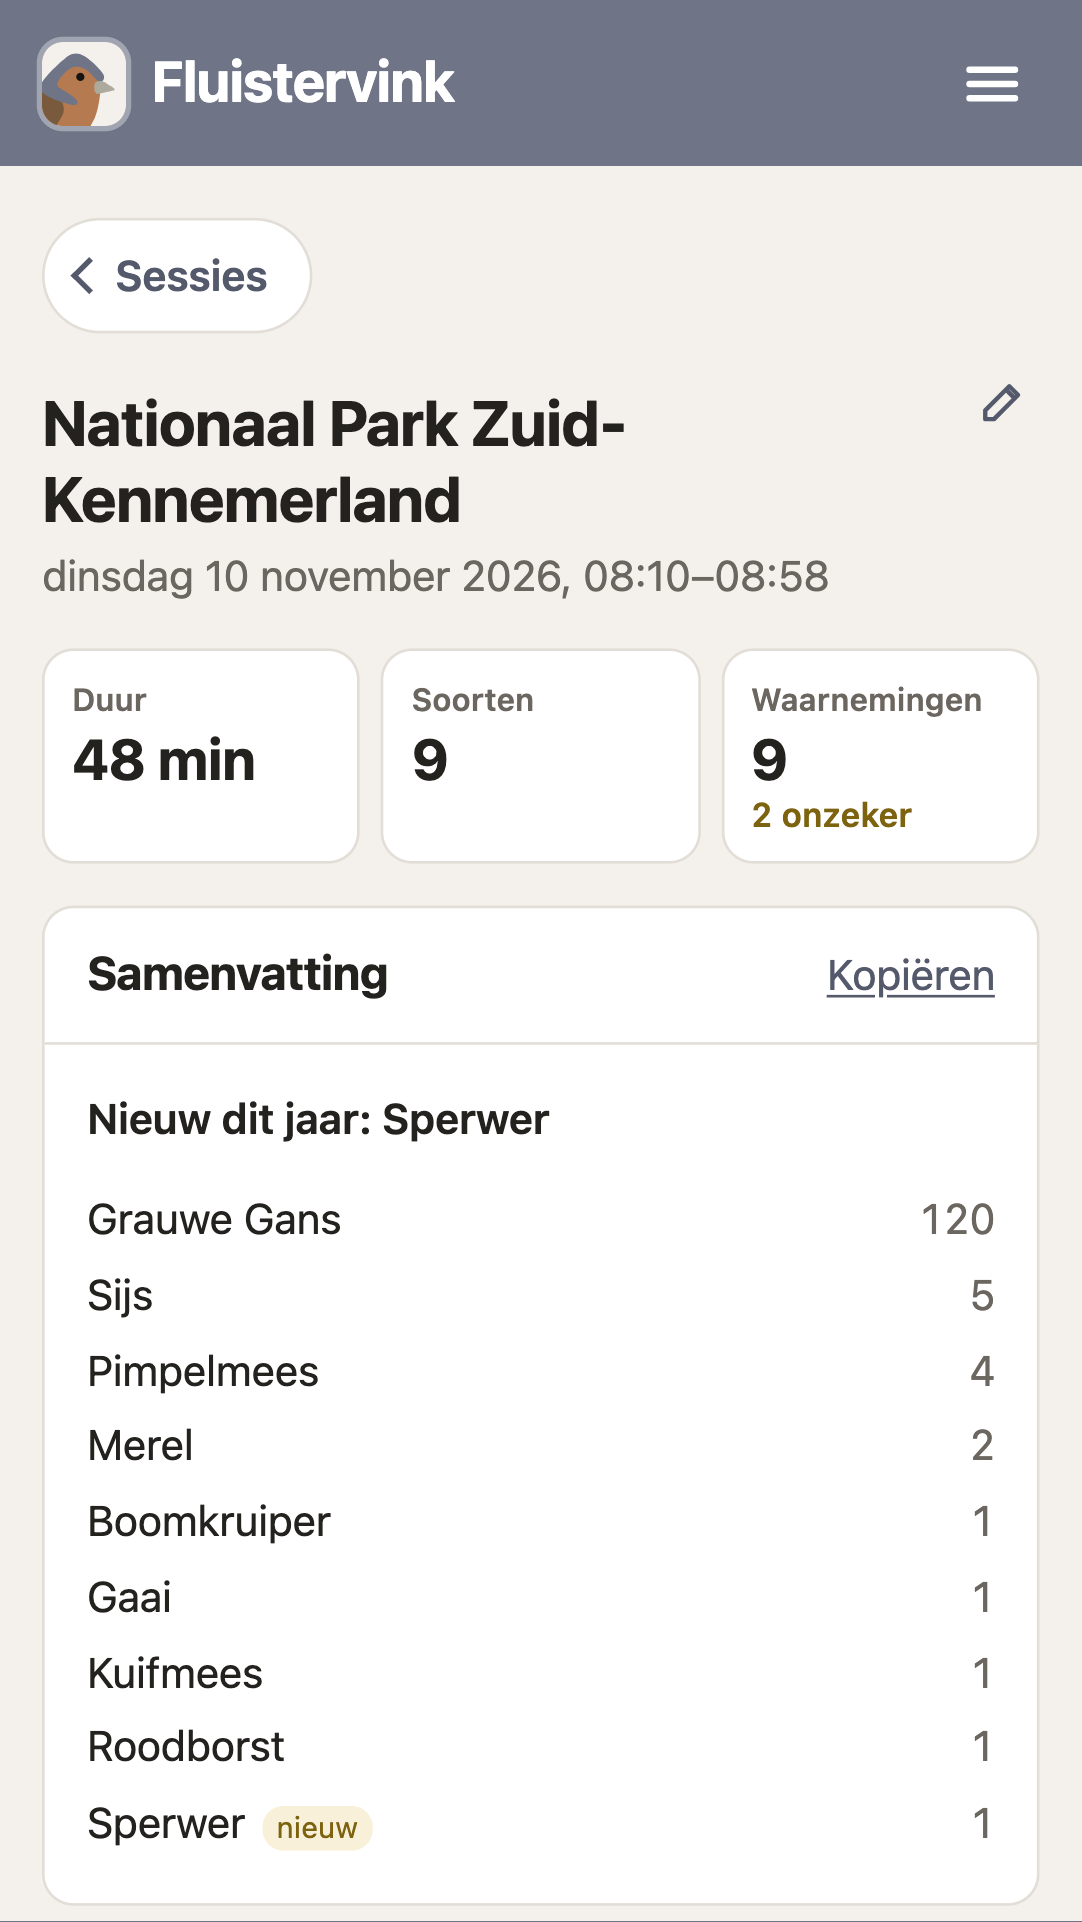
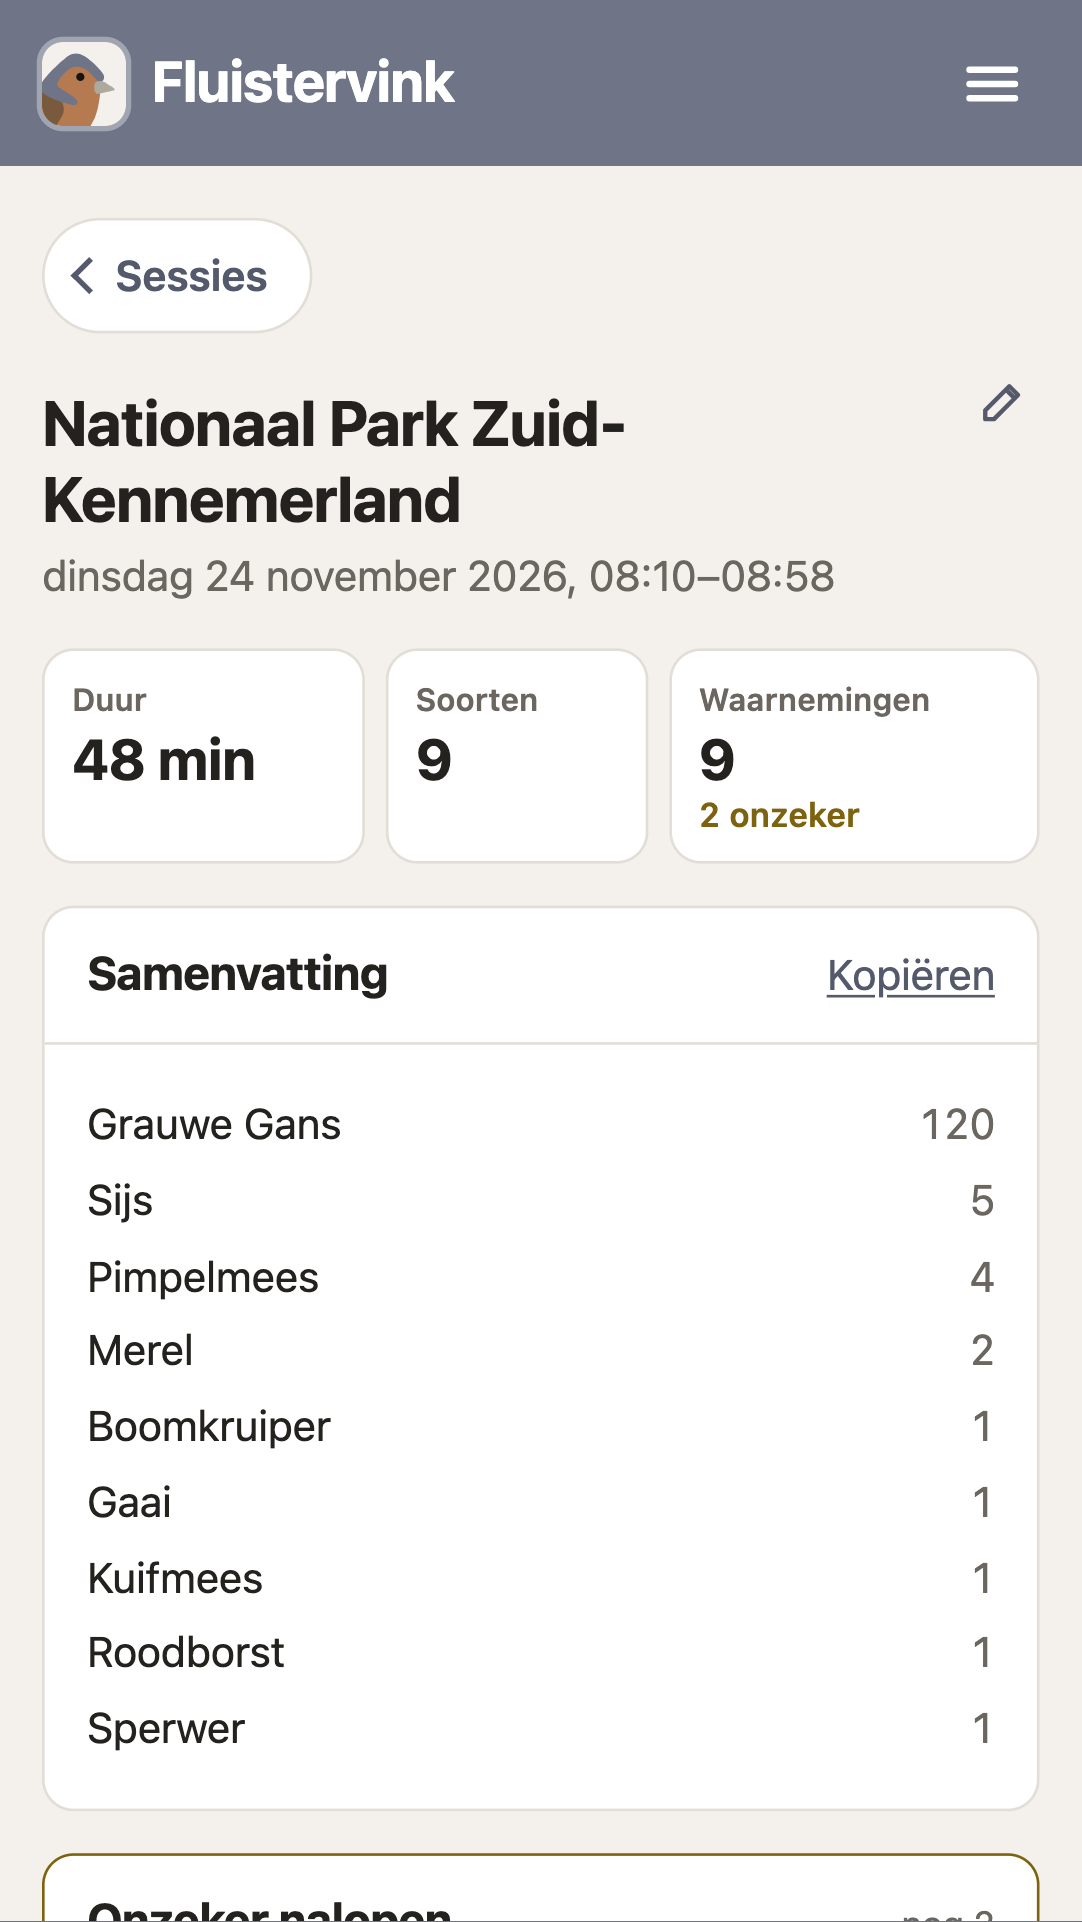
Play-schermafbeeldingen opnieuw (zonder 'Nieuw dit jaar')

diff --git a/NOTES.md b/NOTES.md
@@ -6,7 +6,7 @@ Waar de rest staat: ontwerp en afspraken in `CLAUDE.md`, de richting in `docs/ro
 
 ## Nu (25 nov)
 
-- **Ronde vóór productie (25 nov)** (logboek in `docs/kwaliteitsronde.md`). Hotfixes in stable (b66f9b4): #382 (alleen Haiku), #384 (delen zonder persoonsgegevens, privacytekst), #385 (noodrem en grenzen voor alle installaties samen, kaart Noodrem op Developer). Daarna naar `main` (gemerged 25 nov, op de beta nalopen): #387 (opname met het scherm uit niet wissen als bewaren mislukt), #388 (correcties met de stem laten de twijfel staan: een onzekere waarneming inspreken, dan "nog één erbij", moet onzeker blijven; geen undo in een trektelstuk), #389 (twee keer snel op Klopt tikken bij het nalopen: alleen de eerste wordt zeker), #390 (native, pas met v0.8; debug-APK `apk/fluistervink-0.7+38-native-opruimen.apk`: met het scherm uit opnemen, stoppen en meteen opnieuw starten, beide moeten aankomen). **Zelf doen vóór productie** (teksten in `docs/play-store/README.md`): de microfoonverklaring bijwerken met de tekst uit #390, en de nieuwe lange beschrijving (25 nov: volumeknop met het scherm uit, trektellen, geen bereik, eBird, afschermen) in de Hoofdwinkelvermelding zetten. Schermafbeeldingen (van 11 nov) vlak voor productie opnieuw met `npm run play-screenshots`. **Voor later:** back-up in het geheugen en zonder streaming; `wachtend` bij het opstarten ophalen; dubbel verwerken en een maximum aantal pogingen in de wachtrij; herinnering voor export bij lege sessies; landcode voor eBird; eigen fouttekst bij noodrem of budget; testerslijst op Developer leest alle sessies; Bluetooth-toestemmingen in stable; nonce van Play Integrity hashen; cron voor `pruneUsage`; testsleutel van Turnstile in elke omgeving; `webDir: 'dist'` neemt de Worker-build mee.
+- **Ronde vóór productie (25 nov)** (logboek in `docs/kwaliteitsronde.md`). Hotfixes in stable (b66f9b4): #382 (alleen Haiku), #384 (delen zonder persoonsgegevens, privacytekst), #385 (noodrem en grenzen voor alle installaties samen, kaart Noodrem op Developer). Daarna naar `main` (gemerged 25 nov, op de beta nalopen): #387 (opname met het scherm uit niet wissen als bewaren mislukt), #388 (correcties met de stem laten de twijfel staan: een onzekere waarneming inspreken, dan "nog één erbij", moet onzeker blijven; geen undo in een trektelstuk), #389 (twee keer snel op Klopt tikken bij het nalopen: alleen de eerste wordt zeker), #390 (native, pas met v0.8; debug-APK `apk/fluistervink-0.7+38-native-opruimen.apk`: met het scherm uit opnemen, stoppen en meteen opnieuw starten, beide moeten aankomen). **Zelf doen vóór productie** (teksten in `docs/play-store/README.md`): de microfoonverklaring bijwerken met de tekst uit #390, en de nieuwe lange beschrijving (25 nov: volumeknop met het scherm uit, trektellen, geen bereik, eBird, afschermen) in de Hoofdwinkelvermelding zetten. De nieuwe schermafbeeldingen (25 nov, `docs/play-store/screenshots/`) uploaden; de oude tonen nog "Nieuw dit jaar". **Voor later:** back-up in het geheugen en zonder streaming; `wachtend` bij het opstarten ophalen; dubbel verwerken en een maximum aantal pogingen in de wachtrij; herinnering voor export bij lege sessies; landcode voor eBird; eigen fouttekst bij noodrem of budget; testerslijst op Developer leest alle sessies; Bluetooth-toestemmingen in stable; nonce van Play Integrity hashen; cron voor `pruneUsage`; testsleutel van Turnstile in elke omgeving; `webDir: 'dist'` neemt de Worker-build mee.
 
 - **Lancering in Play** (`docs/lancering.md`): gesloten test met 12 testers sinds 17 nov, tot ongeveer 1 dec, daarna productietoegang aanvragen. Testers op stable, de eigenaar op de beta. De proxy begrenst elke installatie per dag (#278, #352: spraak 5 uur, model 500 verzoeken); bijstellen met de kosten per gebruiker op Developer (#277). Feedback uit Discord (letterlijk, plus overzicht per tester met wat ermee gedaan is) in `testset/feedback/discord/`, buiten git; testers gevraagd nog wat in te dienen (21 nov). v0.7 (a783304, opnemen met het scherm uit als keuze) op 24 nov geüpload naar de interne en de gesloten test, releasenaam = tag; de gesloten test wacht op de beoordeling van Google. Release notes gesloten test (alleen NL): "Nieuw bij Instellingen: Opnemen met het scherm uit. Met de volumeknop start en stop je een opname, ook met de telefoon in je zak. Een trektelling telt door met het scherm uit. Verder: de app begrijpt je beter, je kunt waarnemingen afschermen of onder embargo zetten (\"die ooievaar afschermen\"), en een opname blijft bewaard als je stopt tijdens het inspreken." #362 en #363 (teksten voor productie) mogen nu naar `main`; daarna kan `main` tot productie niet meer naar stable, fixes voor testers dan als hotfix. Na productie: `npm run release`; logo waarschijnlijk januari. Play Console nagelopen op 22 nov: de lijsten van de interne en de gesloten test kloppen. Nieuwe testers tot productie met de hand op de e-maillijst. Na productie: testers die er zelf voor kiezen, via een Google Group en een kaart op het hoofdscherm (`docs/plan-testers.md`, voorstel 23 nov).
 - **Statistieken en Developer uitbreiden** (#353–#355, gemerged 23 nov; stap 1–3 van het voorstel van 22 nov, uitleg in `docs/proxy.md`, Statistieken). Op de beta nagekeken op 23 nov (draaiboek release, R): Developer, Statistieken en de anonieme cijfers werken. **#365 (gemerged 23 nov):** eigen installaties telden mee als gebruiker (78 geïnstalleerd; elke herinstallatie meldt zich aan vóór de code). Nu: de app met de code openen op elk toestel (markeert zichzelf), daarna op Developer onder Installaties **Ongebruikte opruimen** (#370, gemerged 24 nov): haalt alles uit de lijst wat na een dag nooit iets insprak, deelde of een naam opgaf; die blijven werken en komen terug zodra ze iets doen. Daarna de overgebleven `app-…` van jezelf op "Van mij"; de trechter moet dan zakken. Gebruik op Developer liever opruimen dan afsluiten: een afgesloten installatie kan zich niet opnieuw aanmelden, en openzetten kan nog niet. Ook gemerged 24 nov, op de beta nalopen: #369 (de lijst werkt meteen bij na Afsluiten, Verwijderen en Van mij; de proxy zette een eerdere wijziging soms terug) en #371 (kosten: bedragen rechts op één regel, de gegevens onder "Meer" als rijen).

diff --git a/docs/play-store/README.md b/docs/play-store/README.md
@@ -13,7 +13,7 @@ sips -s format jpeg -s formatOptions 92 /tmp/fg.png --out docs/play-store/featur
 
 ## Schermafbeeldingen
 
-`screenshots/1-inspreken.png` t/m `5-start.png` (1082×1922, staand), in deze volgorde uploaden bij Winkelvermelding → Telefoon: lopende sessie, samenvatting na een sessie, onzeker nalopen met de kaart, export naar waarneming.nl, startscherm. Van de stabiele versie (zonder "beta") met verzonnen voorbeeldgegevens: een ochtend in de Amsterdamse Waterleidingduinen en een in Zuid-Kennemerland (`scripts/play-screenshots/seed.ts`), geen echte plekken van gebruikers. Opnieuw maken (bv. met het nieuwe logo) met `npm run play-screenshots`: start de dev-server in de stand van stable en een headless Chrome (in `/Applications`), en vraagt internet voor de kaarttegels.
+`screenshots/1-inspreken.png` t/m `5-start.png` (1082×1922, staand; gemaakt 25 nov, in de Console nog die van 9 nov, met het verdwenen "Nieuw dit jaar"), in deze volgorde uploaden bij Winkelvermelding → Telefoon: lopende sessie, samenvatting na een sessie, onzeker nalopen met de kaart, export naar waarneming.nl, startscherm. Van de stabiele versie (zonder "beta") met verzonnen voorbeeldgegevens: een ochtend in de Amsterdamse Waterleidingduinen en een in Zuid-Kennemerland (`scripts/play-screenshots/seed.ts`), geen echte plekken van gebruikers. Opnieuw maken (bv. met het nieuwe logo) met `npm run play-screenshots`: start de dev-server in de stand van stable en een headless Chrome (in `/Applications`), en vraagt internet voor de kaarttegels.
 
 ## Categorie
 
